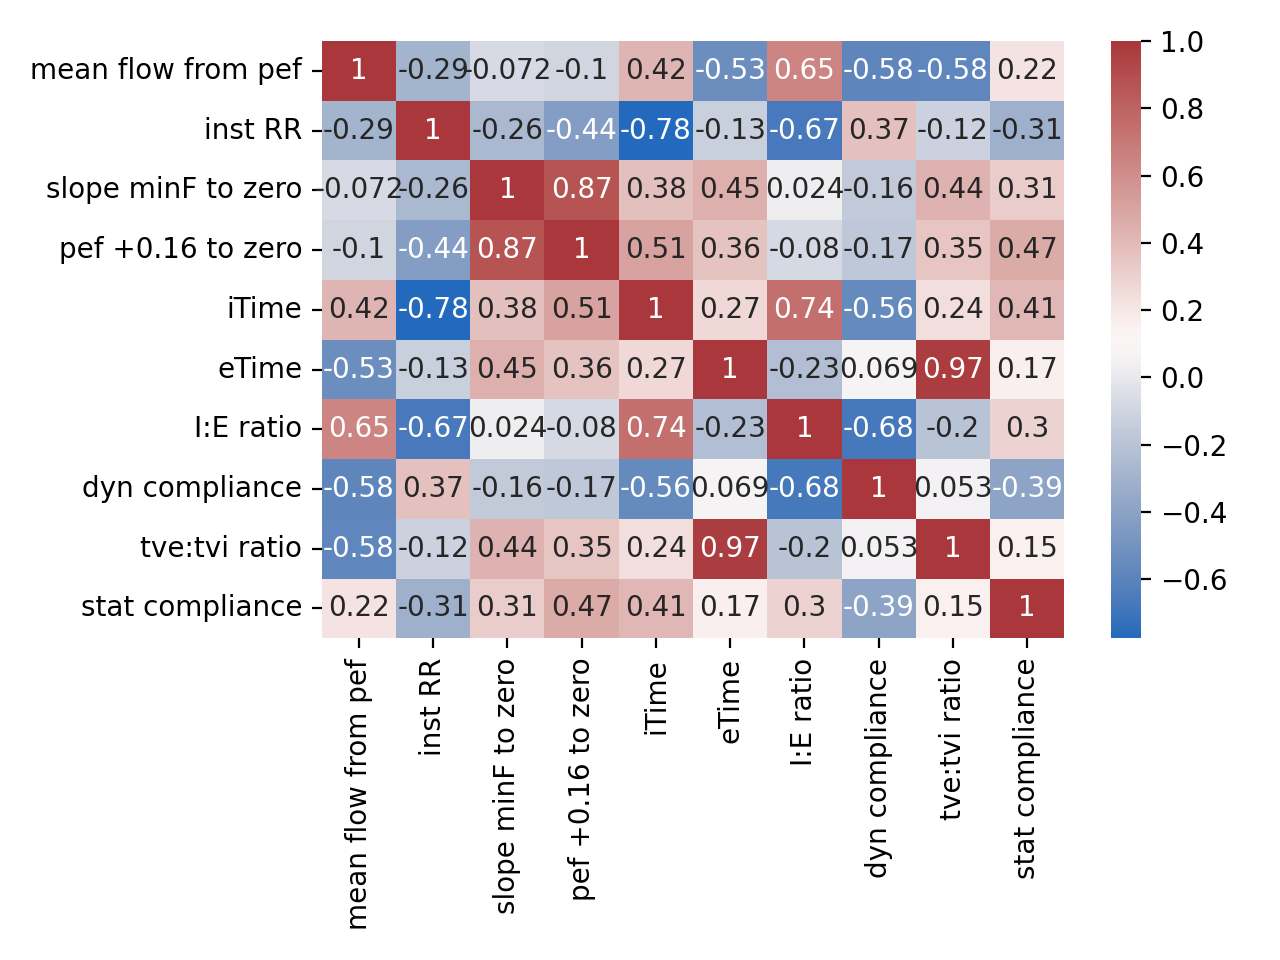
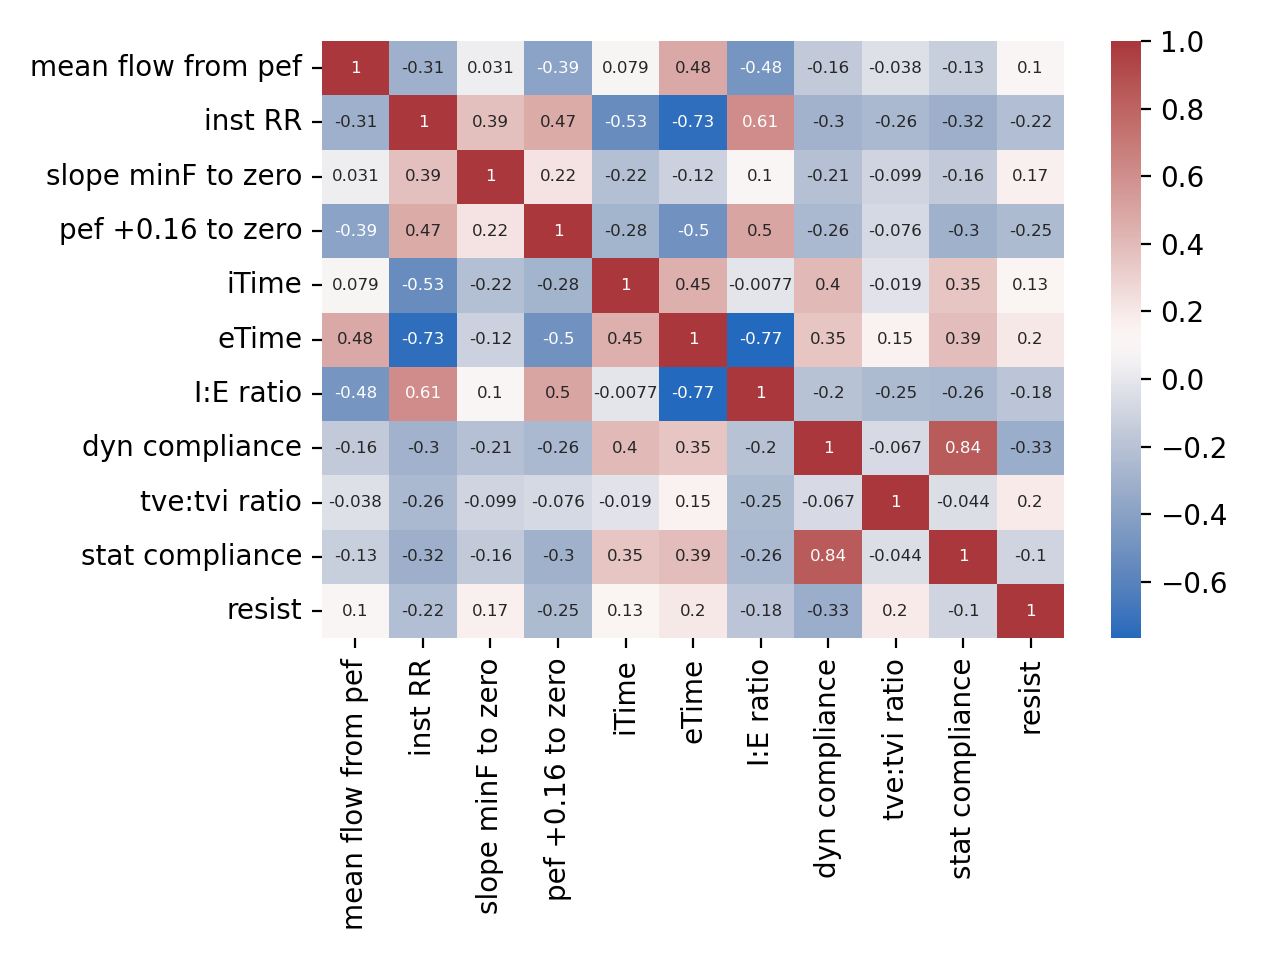
update some analysis for recent resistance additions

diff --git a/train.py b/train.py
@@ -321,19 +321,21 @@ class ARDSDetectionModel(object):
         if self.args.algo in ['RF']:
             header = '--- Feature OOB scores ---'
             oob_scores = clf.feature_importances_
-            scores = sorted(oob_scores, key=lambda x: -x)
+            sort_mask = np.argsort(-oob_scores)
+            scores = oob_scores[sort_mask]
             self.feature_score_rounding = lambda x: round(x, 4)
             self.rank_order = -1
         else:
             header = '--- Feature chi2 p-values ---'
             scores, pvals = chi2(x_train, y_train)
-            scores = sorted(pvals)
+            sort_mask = np.argsort(pvals)
+            scores = pvals[sort_mask]
             self.feature_score_rounding = lambda x: round(x, 4)
             self.rank_order = 1
 
         table = PrettyTable()
         table.field_names = ['rank', 'feature', 'score']
-        for rank, feature, score in zip(range(1, len(scores)+1), x_train.columns, scores):
+        for rank, feature, score in zip(range(1, len(scores)+1), x_train.columns[sort_mask], scores):
             if feature not in self.feature_ranks:
                 self.feature_ranks[feature] = [(rank, score)]
             else:
@@ -482,7 +484,6 @@ class ARDSDetectionModel(object):
                             },
                         },
                     },
-                    # XXX these are params from 24 hr model. should be changed
                     'holdout': {
                         100: {
                             'majority': {

diff --git a/static_compliance_suppl.py b/static_compliance_suppl.py
@@ -5,14 +5,14 @@ import pandas as pd
 import seaborn as sns
 
 
-def correlation_mat(df):
+def correlation_mat(df, annot):
     feats = [col for col in df.columns if 'nanmedian' in col]
     renaming = {f: f.replace('nanmedian_', '').replace('_', ' ') for f in feats}
     df = df.rename(columns=renaming)
     new_feat_names = list(renaming.values())
     corr_mat = df[new_feat_names].corr()
     cmap = sns.color_palette("vlag", as_cmap=True)
-    sns.heatmap(corr_mat, cmap=cmap, annot=True)
+    sns.heatmap(corr_mat, cmap=cmap, annot=annot, annot_kws={'fontsize': 6})
     plt.tight_layout()
     plt.savefig('img/feature_correlation_matrix.png', dpi=200)
 
@@ -20,10 +20,11 @@ def correlation_mat(df):
 def main():
     parser = argparse.ArgumentParser()
     parser.add_argument('df')
+    parser.add_argument('--anno-vals', action='store_true', help='annotate values in correlation matrix')
     args = parser.parse_args()
 
     df = pd.read_pickle(args.df)
-    correlation_mat(df)
+    correlation_mat(df, args.anno_vals)
 
 
 if __name__ == '__main__':
